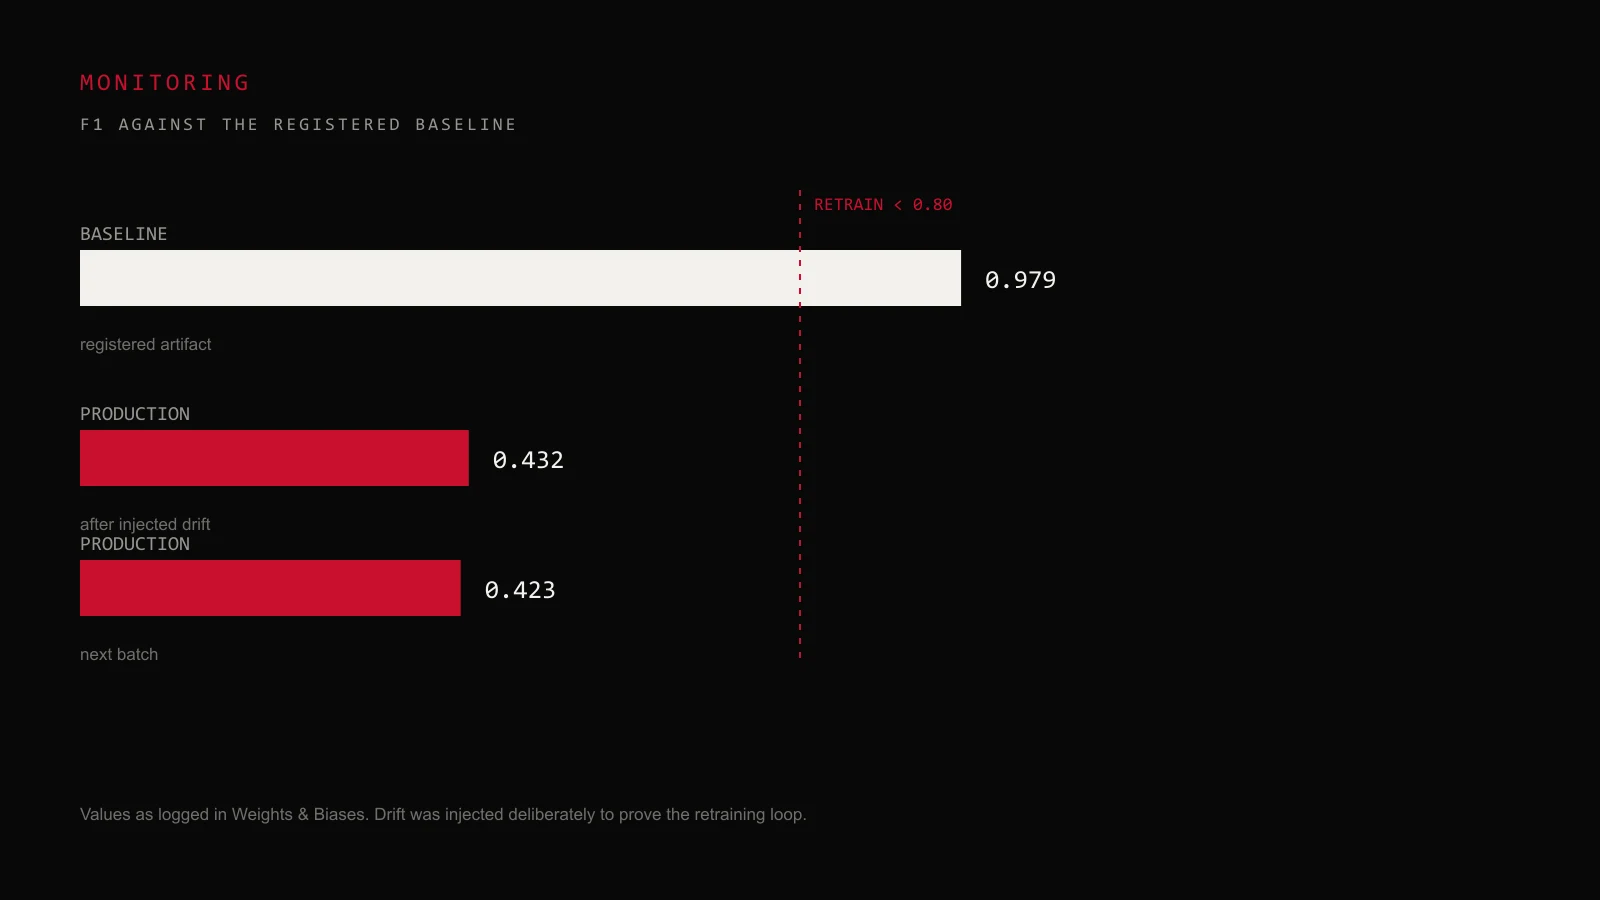
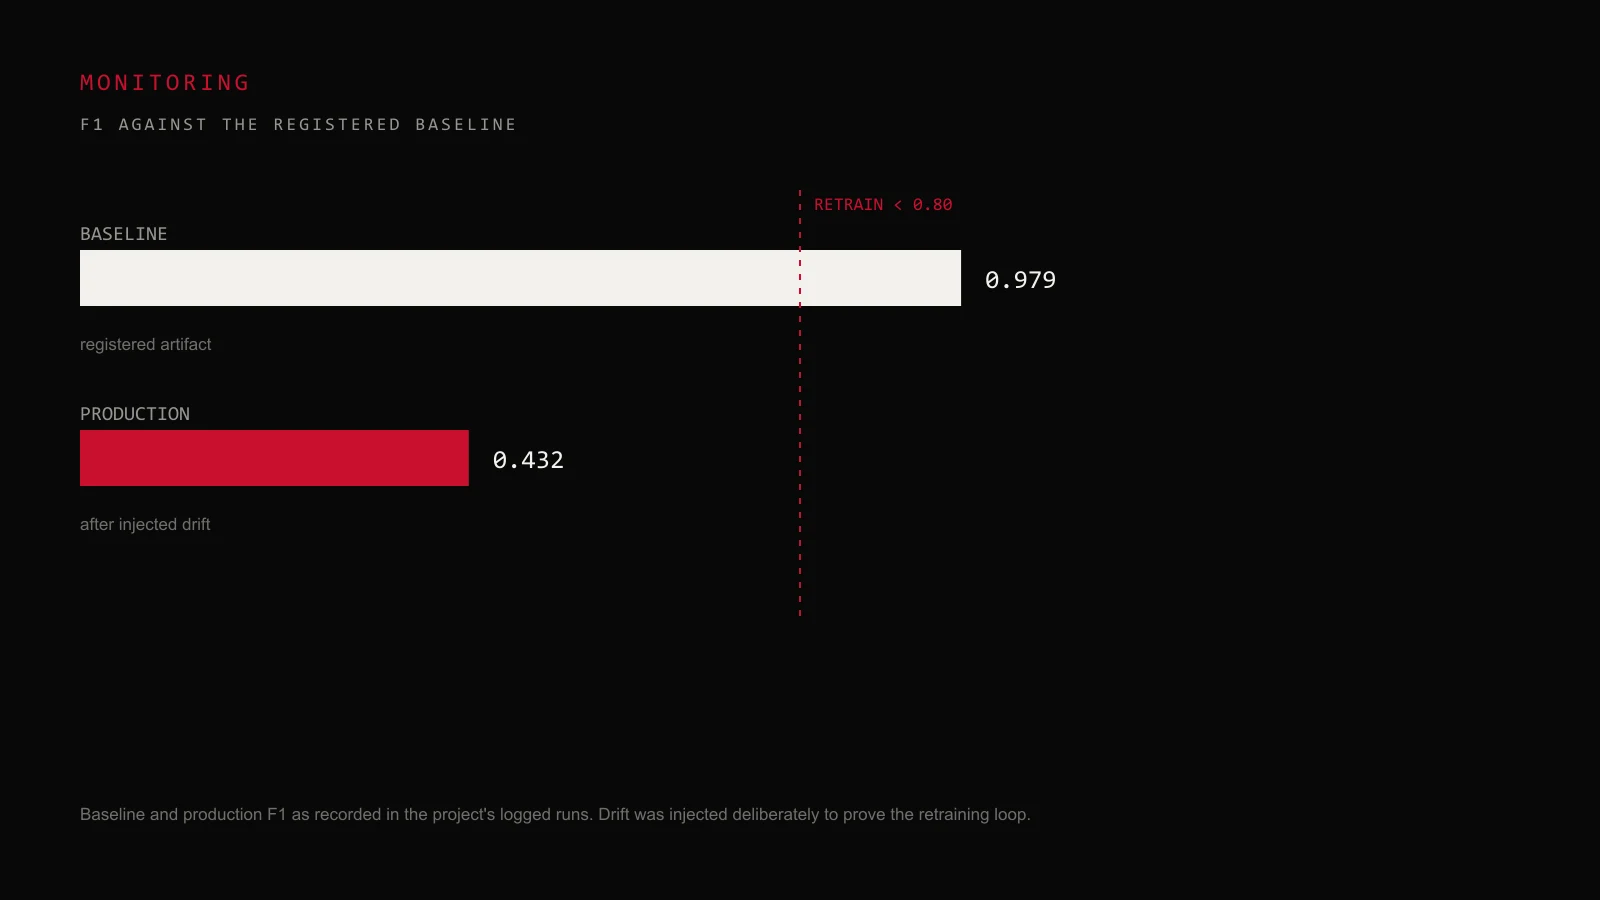
fix: align evidence charts and claims with the ledger after review

Changed region(s): [[0.0312, 0.5911, 0.3438, 0.6844], [0.0625, 0.9022, 0.625, 0.9333], [0.0625, 0.7156, 0.0938, 0.7467]]

diff --git a/src/lib/repos.ts b/src/lib/repos.ts
@@ -1,8 +1,14 @@
 import type { Repo } from './project-schema';
 
+export type PublishedRepo = Repo & { url: string };
+
+function isPublished(repo: Repo): repo is PublishedRepo {
+  return repo.status === 'published' && Boolean(repo.url);
+}
+
 /** A Repository is only linked when its Publication Status is published and it has a URL. */
-export function linkableRepos(repos: Repo[]): Repo[] {
-  return repos.filter((repo) => repo.status === 'published' && Boolean(repo.url));
+export function linkableRepos(repos: Repo[]): PublishedRepo[] {
+  return repos.filter(isPublished);
 }
 
 /** Repositories whose code is not public yet. They render as a badge, never as a dead link. */
@@ -18,7 +24,7 @@ export function repoStatusLabel(repo: Repo): string {
 
 /** A one-line Publication Status summary for cards and indexes. */
 export function publicationSummary(repos: Repo[]): string {
-  if (repos.some((repo) => repo.status === 'published' && repo.url)) return 'Repository published';
+  if (linkableRepos(repos).length > 0) return 'Repository published';
   if (repos.some((repo) => repo.status === 'private')) return 'Code private';
   if (repos.length === 0) return 'No repository';
   return 'Publishing soon';

diff --git a/src/lib/achievements.ts b/src/lib/achievements.ts
@@ -54,6 +54,10 @@ export const ACHIEVEMENTS: Achievement[] = [
   },
 ];
 
+export function sortedAchievements(): Achievement[] {
+  return [...ACHIEVEMENTS].sort((a, b) => b.sort - a.sort);
+}
+
 export function recentAchievements(limit: number): Achievement[] {
-  return [...ACHIEVEMENTS].sort((a, b) => b.sort - a.sort).slice(0, limit);
+  return sortedAchievements().slice(0, limit);
 }

diff --git a/src/content/projects/spell-caster.md b/src/content/projects/spell-caster.md
@@ -49,10 +49,10 @@ results:
 
 reflection: >-
   The Conformer was the more interesting model to build and the worse one to
-  ship: its WER was 0.113 against Whisper's 0.0015, and it only won on CPU
-  latency. I would start from the strongest base model and spend the effort on
-  the task-specific head, then measure latency on the path users actually take
-  rather than on a benchmark in isolation.
+  ship: its WER was 0.113 against Whisper's 0.0015, and its only advantage was
+  running comfortably on CPU. I would start from the strongest base model and
+  spend the effort on the task-specific head, then measure latency on the path
+  users actually take rather than on a benchmark in isolation.
 
 cover:
   src: /projects/spell-caster/cover.webp
@@ -70,8 +70,8 @@ gallery:
     alt: Confusion matrix for the six emotion classes predicted by the Whisper-Small emotion head.
     caption: Emotion confusion, six classes. Neutral is the easiest to confuse with everything else.
   - src: /projects/spell-caster/latency.webp
-    alt: Latency breakdown chart for the speech pipeline.
-    caption: The measured Conformer path on CPU, before and after INT8 export.
+    alt: Bar chart of Conformer inference latency on CPU at batch size one after INT8 export, 19.3 ms.
+    caption: Conformer on CPU at batch size one after INT8 export. The Whisper transcription path was not benchmarked.
 
 repos:
   - label: GitHub repository

diff --git a/docs/project-facts.md b/docs/project-facts.md
@@ -7,7 +7,7 @@ Extracted from the notebooks, reports, and code on disk. This is the evidence ba
 | CV claim | Evidence found | Site copy |
 | --- | --- | --- |
 | NASA: "99% accuracy" | Best logged run `f1_anomaly` **0.9787**; no accuracy logged. `shuttle_ocsvm_99f1.pkl` has no supporting code or run. | "F1 0.979 on the anomaly class" — never accuracy, never 99% |
-| H-GATE: ensemble superiority | +0.16 pp accuracy vs vanilla XGBoost; macro-AUC is *lower* (0.9984 vs 0.9993) | Lead with macro-F1 0.986 and macro-FPR 0.37%; compare honestly to a strong baseline |
+| H-GATE: ensemble superiority | +0.16 pp accuracy vs vanilla XGBoost (baseline macro-F1 0.9839); macro-AUC is *lower* (0.9984 vs 0.9993) | Lead with macro-F1 0.986 and macro-FPR 0.37%; compare honestly to a strong baseline |
 | Spell Caster: "Whisper-LoRA dual ASR+SER" | LoRA is fine-tuned for **emotion only**; transcription uses stock Whisper-Small | "LoRA-tuned emotion head on Whisper-Small; transcription uses the base model" |
 | Spell Caster: "latency under 2s" | Only measured figure: Conformer CPU batch-1 — 38.5 ms FP32, 19.3 ms INT8. Whisper path unmeasured. | Use the measured Conformer numbers; do not claim a Whisper latency |
 | AdaIN: "150 ms inference" | Report: 15–30 FPS at 256 px on 2×T4 | "15–30 FPS at 256 px (2×T4)" |
